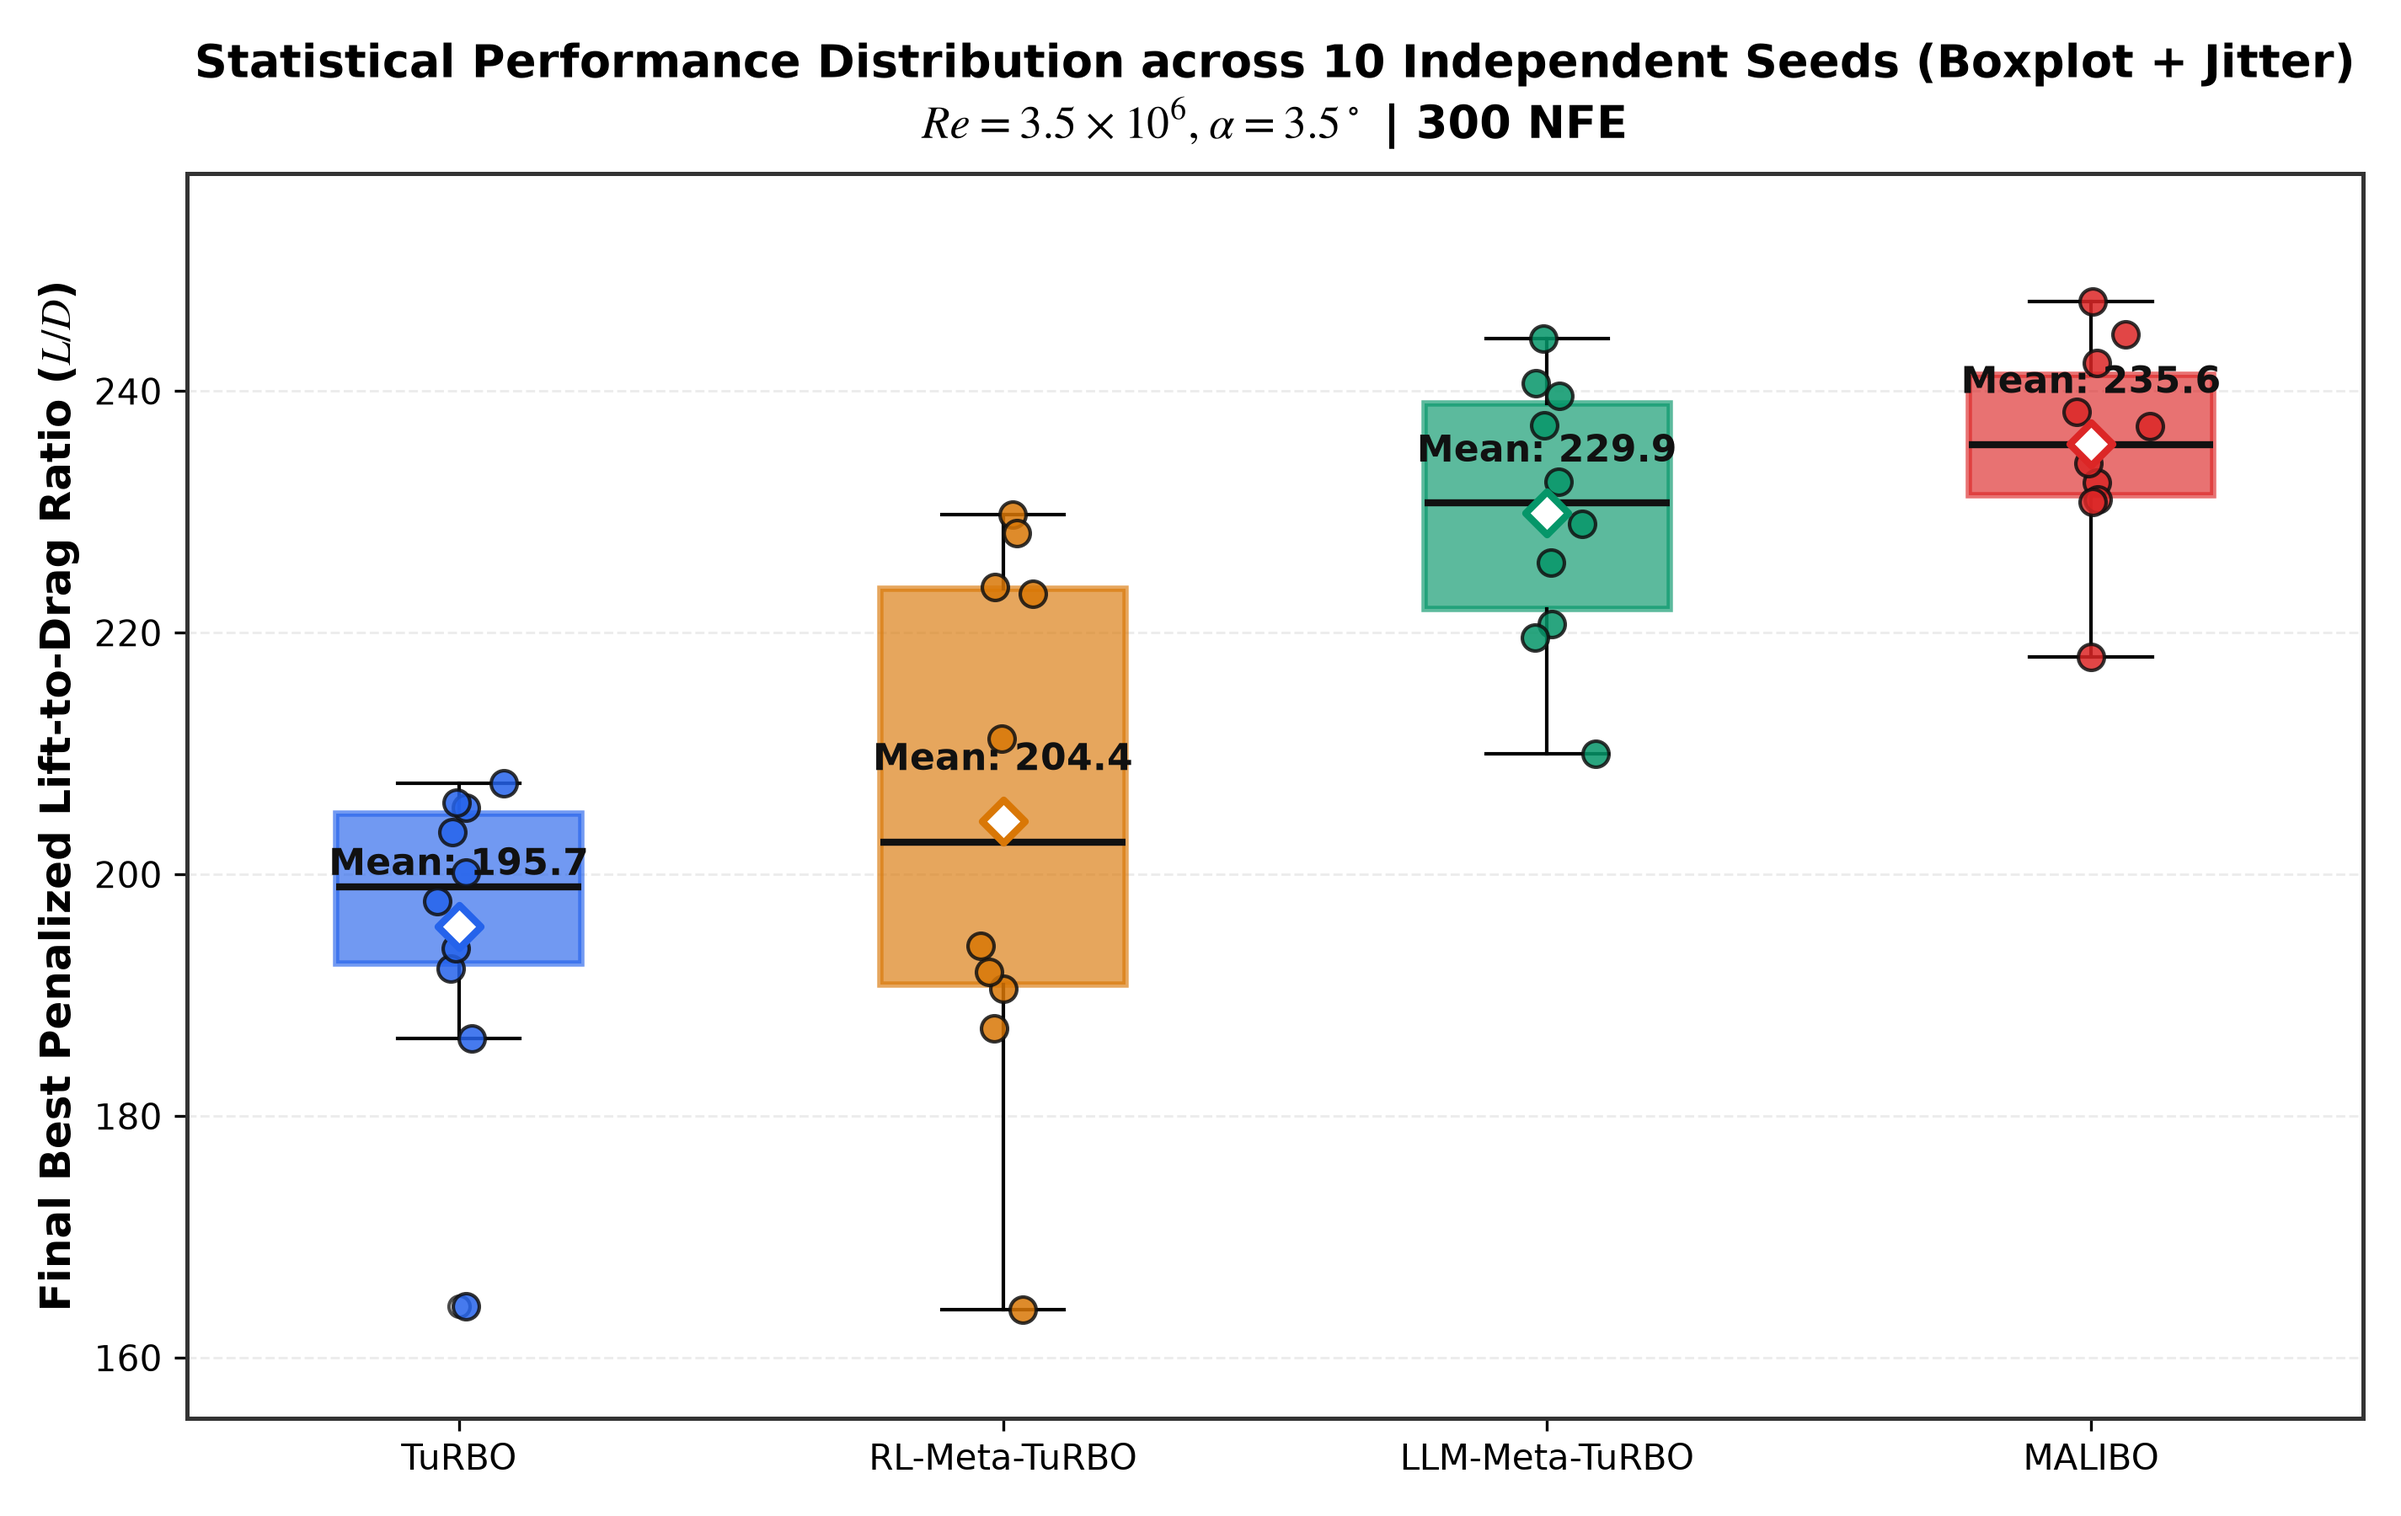
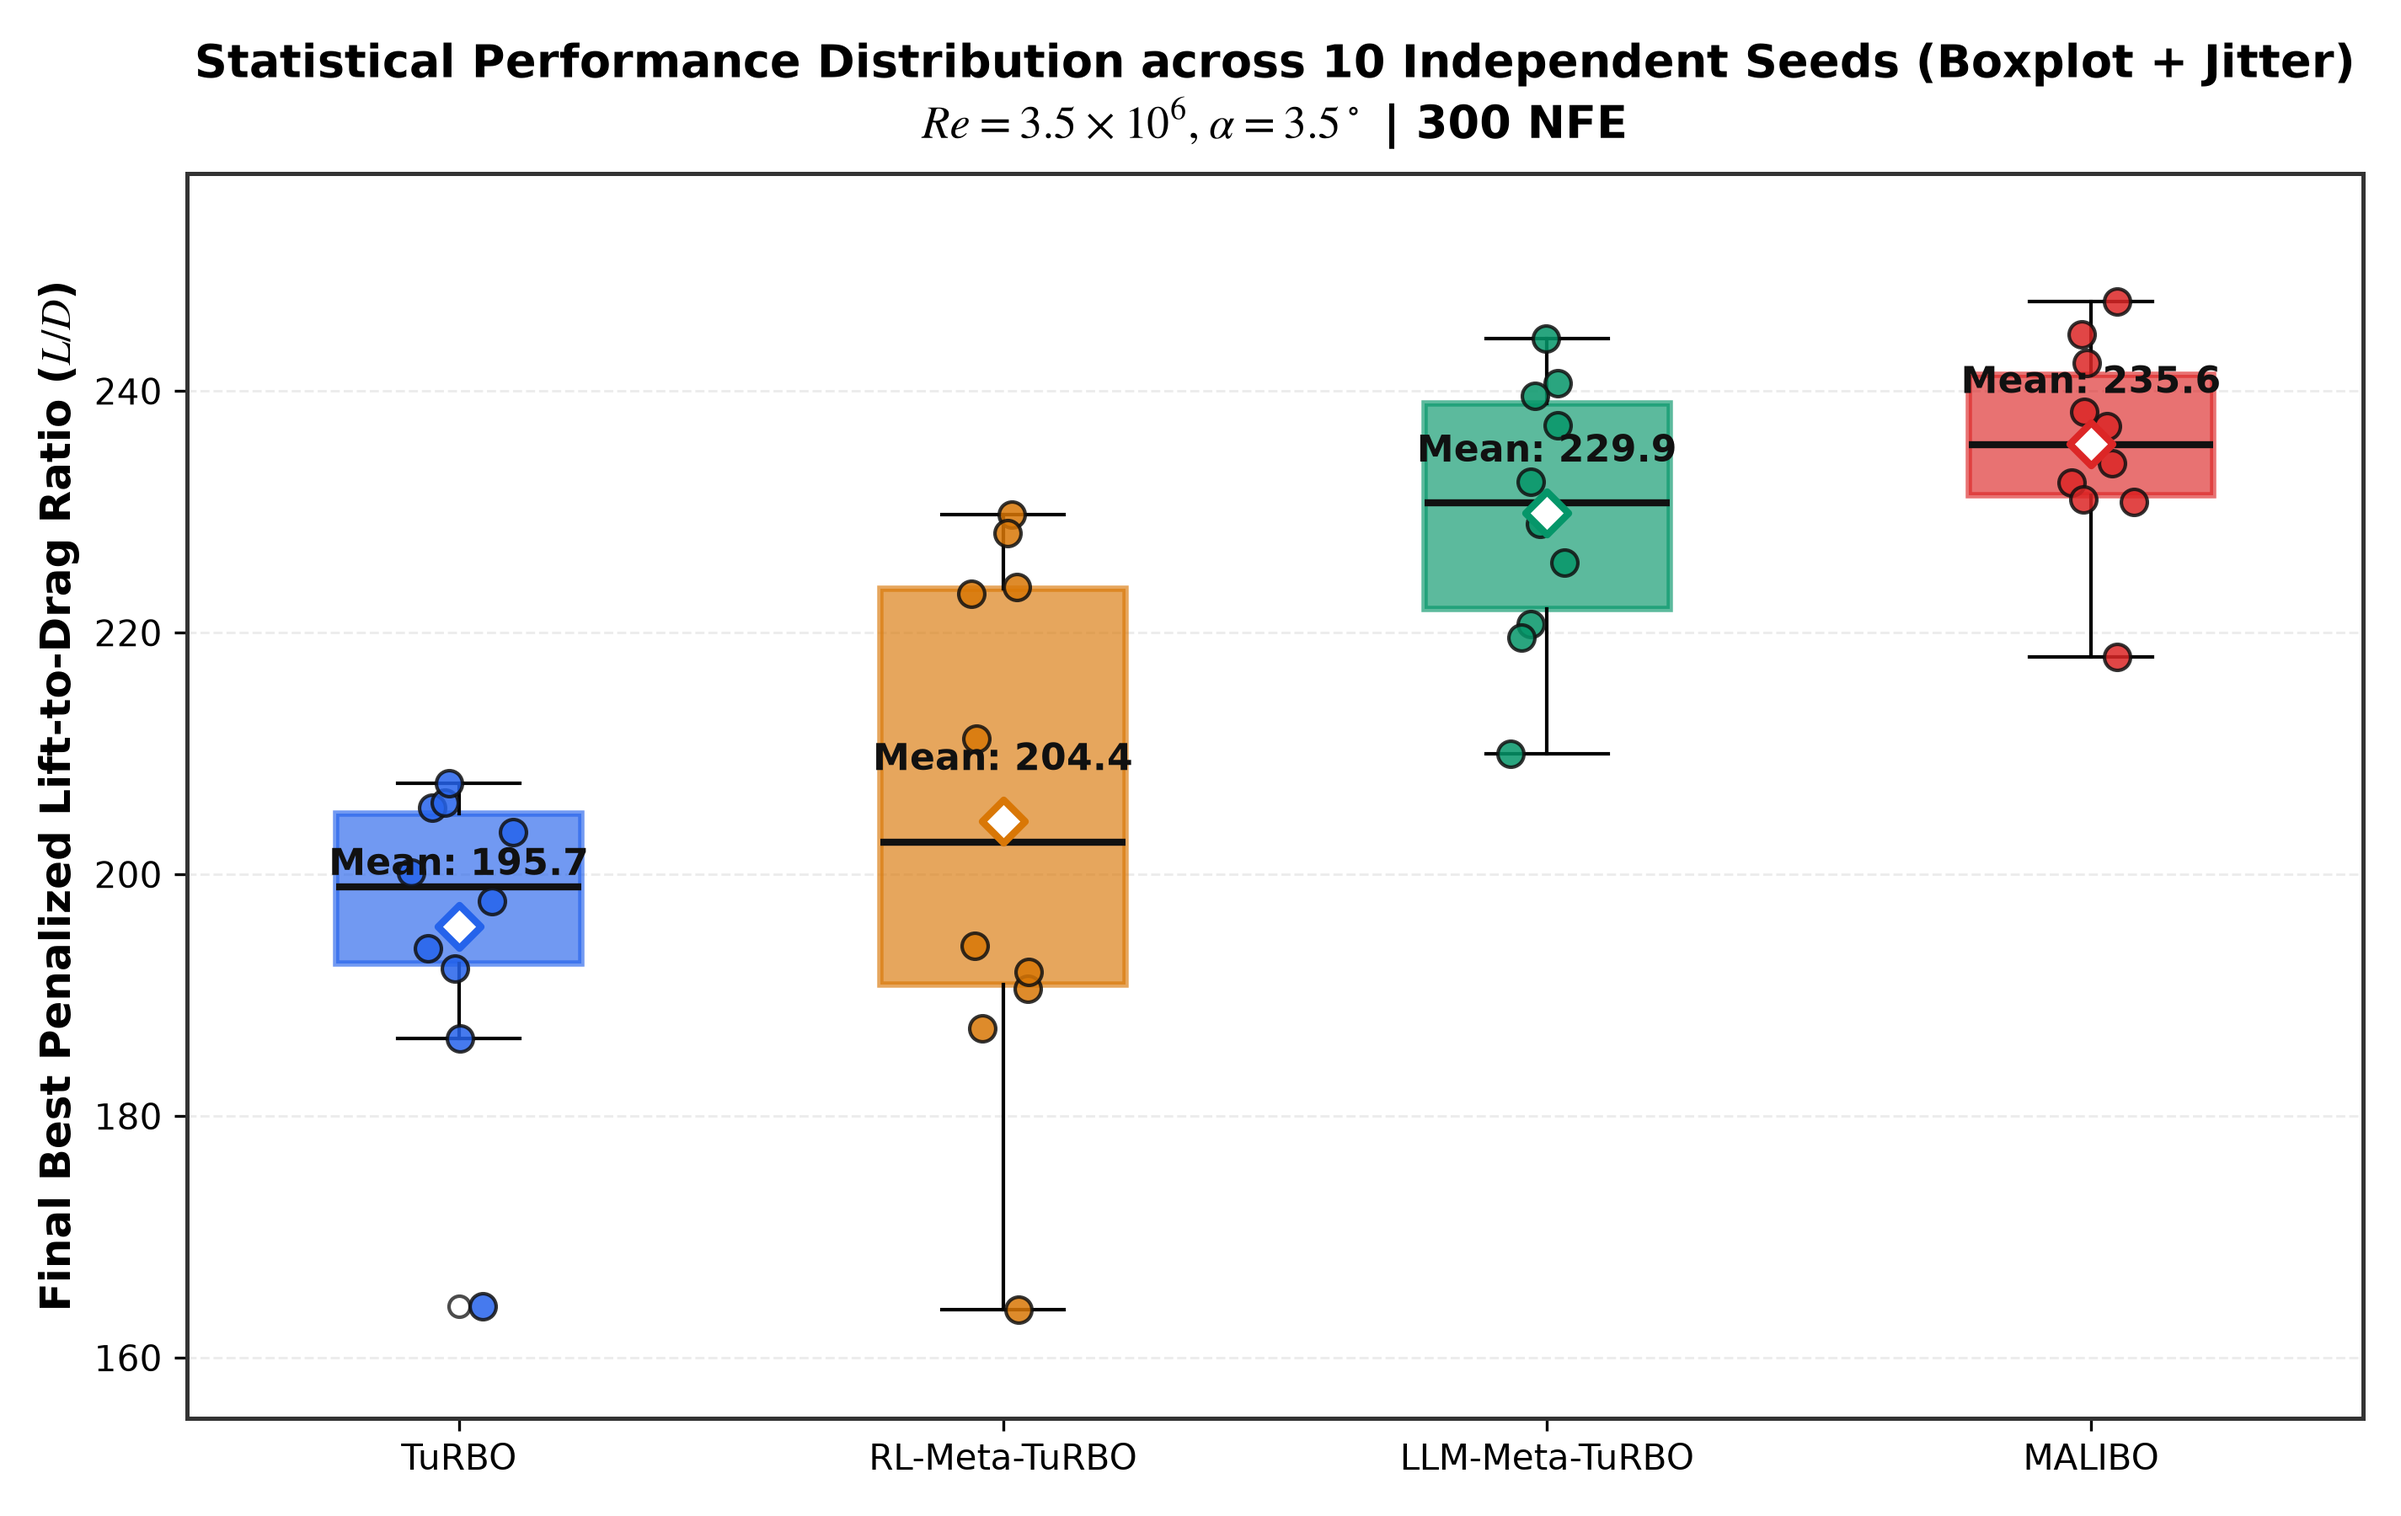
fix(integrity): lock NFE budget defense in evaluator, align MALIBO evaluator/bounds, and persist LLM interaction logs

diff --git a/benchmark_llm_malibo.py b/benchmark_llm_malibo.py
@@ -24,8 +24,10 @@ from src.evaluator import AerodynamicEvaluator
 from src.llm_agent import OptimizedLLMMetaAgent
 from src.optimizers.llm_turbo import LLMMetaTuRBOOptimizer
 
-# 引入 Meta-CFD 组件
-_META_CFD_DIR = os.path.join(os.path.dirname(os.path.abspath(__file__)), "Meta-CFD")
+# 引入 Meta-CFD 组件 (处理平级目录路径)
+_META_CFD_DIR = os.path.join(os.path.dirname(os.path.dirname(os.path.abspath(__file__))), "Meta-CFD")
+if not os.path.exists(_META_CFD_DIR):
+    _META_CFD_DIR = os.path.join(os.path.dirname(os.path.abspath(__file__)), "Meta-CFD")
 if _META_CFD_DIR not in sys.path:
     sys.path.insert(0, _META_CFD_DIR)
 
@@ -46,21 +48,25 @@ def run_malibo_single_seed(
     reynolds: float = 3.5e6,
     alpha: float = 3.5,
     max_evals: int = 300,
-    checkpoint_path: str = "Meta-CFD/malibo/malibo_checkpoint.pt",
+    checkpoint_path: Optional[str] = None,
     device: Optional[torch.device] = None,
 ) -> Dict[str, Any]:
     """对单个随机种子执行 MALIBO 元优化"""
+    if checkpoint_path is None:
+        checkpoint_path = os.path.join(_META_CFD_DIR, "malibo", "malibo_checkpoint.pt")
     if device is None:
         device = torch.device("cuda" if torch.cuda.is_available() else "cpu")
 
-    from evaluator import AerodynamicEvaluator as MetaCFDEvaluator
-    evaluator = MetaCFDEvaluator(reynolds=reynolds, alpha=alpha)
-    from malibo_dataset_generator.airfoil_baselines import (
-        get_airfoil_bounds,
-        get_airfoil_parameters,
-    )
-    x0 = get_airfoil_parameters("naca0012")
-    lb, ub = get_airfoil_bounds(x0)
+    # 严格对齐评估器与工业边界防线 (杜绝跨仓库评估器不一致漏洞)
+    evaluator = AerodynamicEvaluator(reynolds=reynolds, alpha=alpha, max_evals=max_evals)
+    x0 = get_naca0012_theta()
+    lb, ub = get_kulfan_bounds(x0)
+
+    if not os.path.exists(checkpoint_path):
+        raise FileNotFoundError(
+            f"MALIBO checkpoint not found at: {checkpoint_path}. "
+            "Please ensure Meta-CFD/malibo/malibo_checkpoint.pt is available."
+        )
 
     ckpt = torch.load(checkpoint_path, map_location=device, weights_only=False)
     num_tasks = ckpt.get("num_tasks", 550)
@@ -74,6 +80,7 @@ def run_malibo_single_seed(
     opt_cfg = MALIBOConfig()
     opt_cfg.optimization.seed = seed
     opt_cfg.optimization.budget = max_evals
+    opt_cfg.optimization.n_init = 15
     init_x_unit = (x0 - lb) / (ub - lb + 1e-8)
 
     def is_geom_valid(th: np.ndarray) -> bool:
@@ -88,6 +95,7 @@ def run_malibo_single_seed(
         ub=ub,
         init_x=init_x_unit,
         evaluate_init_first=True,
+        n_init=15,
         config=opt_cfg,
         budget=max_evals,
         geometry_validator=is_geom_valid,
@@ -133,7 +141,7 @@ def run_llm_meta_single_seed(
     max_evals: int = 300,
 ) -> Dict[str, Any]:
     """对单个随机种子执行 LLM-Meta-TuRBO 元优化"""
-    evaluator = AerodynamicEvaluator(reynolds=reynolds, alpha=alpha)
+    evaluator = AerodynamicEvaluator(reynolds=reynolds, alpha=alpha, max_evals=max_evals)
     x0 = get_naca0012_theta()
     lb, ub = get_kulfan_bounds(x0)
 

diff --git a/src/evaluator.py b/src/evaluator.py
@@ -44,6 +44,7 @@ class AerodynamicEvaluator:
         enforce_smoothness: bool = True,
         min_cm: Optional[float] = -0.15,
         penalty_scale: float = 1.0,
+        max_evals: Optional[int] = None,
     ):
         self.Re = float(reynolds)
         self.alpha = float(alpha)
@@ -85,6 +86,14 @@ class AerodynamicEvaluator:
 
         # 全局惩罚系数
         self.penalty_scale = float(penalty_scale)
+
+        # 统一评估计数器与预算防线 (严禁白嫖评估预算)
+        self.max_evals = int(max_evals) if max_evals is not None else None
+        self.eval_count = 0
+
+    def reset_counter(self) -> None:
+        """重置评估计数器"""
+        self.eval_count = 0
 
     def _theta_to_kulfan(self, theta) -> Tuple[Dict[str, Any], asb.KulfanAirfoil]:
         """将 18 维向量拆解为 AeroSandbox 与 NeuralFoil 格式"""
@@ -366,9 +375,17 @@ class AerodynamicEvaluator:
 
         先进行工业几何前置筛查，致命缺陷直接早退拦截（不调用 NeuralFoil）；
         通过几何筛查后进入 NeuralFoil 气动计算，并施加绝对主导约束惩罚。
+        严格锁定评估计数器：每次调用严格 +1，超预算直接拦截。
 
         返回: L/D 升阻比 (扣除所有几何与气动违背惩罚项)
         """
+        if self.max_evals is not None and self.eval_count >= self.max_evals:
+            raise RuntimeError(
+                f"[NFE Budget Violation in RL-Airfoil] Evaluation count reached max_evals ({self.eval_count} >= {self.max_evals}). "
+                "Further function evaluations are strictly forbidden."
+            )
+        self.eval_count += 1
+
         kulfan_dict, kulfan_af = self._theta_to_kulfan(theta)
 
         # 1. 工业几何前置校验

diff --git a/src/llm_agent.py b/src/llm_agent.py
@@ -66,6 +66,7 @@ class OptimizedLLMMetaAgent:
         self.model = model
         self.api_key = api_key
         self.timeout = timeout
+        self.interaction_log: List[Dict[str, Any]] = []
 
         if HAS_OPENAI:
             self.client = OpenAI(
@@ -144,7 +145,7 @@ Concisely decide meta-parameters and directional strategy. Output final JSON:"""
                 prob_p = float(np.clip(data.get("prob_perturb", 0.5), 0.2, 0.8))
                 exp_w = float(np.clip(data.get("exploration_weight", 1.0), 0.8, 1.8))
                 strat = data.get("directional_strategy", {})
-                return {
+                action = {
                     "thought": str(data.get("thought", "")),
                     "length_scale_factor": scale_L,
                     "prob_perturb": prob_p,
@@ -156,6 +157,13 @@ Concisely decide meta-parameters and directional strategy. Output final JSON:"""
                         "le_radius_shift": float(np.clip(strat.get("le_radius_shift", 0.0), -0.03, 0.03)),
                     },
                 }
+                self.interaction_log.append({
+                    "step": state.get("step"),
+                    "user_prompt": user_prompt,
+                    "raw_response": raw_text,
+                    "action": action,
+                })
+                return action
             raise ValueError(f"Failed to parse valid JSON from LLM response:\n{raw_text}")
         except Exception as e:
             raise RuntimeError(

diff --git a/benchmark.py b/benchmark.py
@@ -29,11 +29,12 @@ TARGET_OPTIMIZERS = ["SPSA", "Py-BOBYQA", "DE", "PSO", "CMA-ES", "TuRBO"]
 def eval_seed_task(task_args: Tuple[str, int, float, float, int, Dict[str, np.ndarray]]) -> Dict[str, Any]:
     """单核独立测试进程：针对单个随机种子，评测 Vanilla 与 RL-Meta 表现"""
     opt_name, seed, reynolds, alpha, max_evals, numpy_weights = task_args
-    evaluator = AerodynamicEvaluator(reynolds=reynolds, alpha=alpha)
+    evaluator = AerodynamicEvaluator(reynolds=reynolds, alpha=alpha, max_evals=max_evals)
     cfg = OPTIMIZER_CONFIGS[opt_name]
     OptClass = cfg["class"]
 
     # 1. 运行 Vanilla 基准
+    evaluator.reset_counter()
     v_opt = OptClass(
         evaluator=evaluator,
         max_evals=max_evals,
@@ -45,6 +46,7 @@ def eval_seed_task(task_args: Tuple[str, int, float, float, int, Dict[str, np.nd
     v_coords = theta_to_coordinates(v_res["best_x"])
 
     # 2. 运行 RL-Meta
+    evaluator.reset_counter()
     def meta_fn(s: np.ndarray) -> np.ndarray:
         return numpy_policy_forward(s, numpy_weights, deterministic=True)
 

diff --git a/src/optimizers/llm_turbo.py b/src/optimizers/llm_turbo.py
@@ -164,7 +164,12 @@ class LLMMetaTuRBOOptimizer(BaseAirfoilOptimizer):
                 }
 
                 action = self.llm_agent.decide_action(state_dict)
-                self.intervention_history.append({"step": step, "action": action})
+                inter_item = {"step": step, "action": action}
+                if hasattr(self.llm_agent, "interaction_log") and len(self.llm_agent.interaction_log) > 0:
+                    last_log = self.llm_agent.interaction_log[-1]
+                    inter_item["user_prompt"] = last_log.get("user_prompt")
+                    inter_item["raw_response"] = last_log.get("raw_response")
+                self.intervention_history.append(inter_item)
 
                 scale_L = action["length_scale_factor"]
                 self.base_L = float(np.clip(self.base_L * scale_L, self.L_min, self.L_max))
